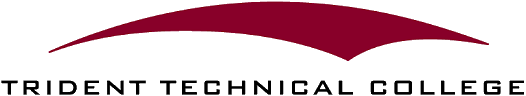
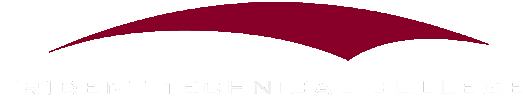
Updated color scheme, fixed loout buttons addes course show page and created home page

diff --git a/trident/css/styles.css b/trident/css/styles.css
@@ -1,9 +1,9 @@
 #header{
     justify-content: space-between;
     display: flex;
-    background-color: grey;
+    background-color: #4A0404;
 }
-#header button{
+#header button, #header form{
     width: 70px;
     height: 70px;
     margin-top: 5px;
@@ -25,22 +25,26 @@
     font-weight: bold;
 }
 #content{
+    display: flex
     background-color: lightgray;
 }
 #main{
     height: 400px;
-    background-color: lightgray;
+    background-color: #DEA557;
     text-align: center;
 }
+#content{
+    background-color: #DEA557;
+}
 body{
-    background-color: lightblue;
+    background-color: tan;
 }
 #dropdown{
     margin: 50px auto;
     display: block;
     width: 200px;
     height: 25px;
-    box-shadow: 4px 2px rgb(40,50,100);
+    box-shadow: 4px 2px #9A8467;
 }
 .submit{
     display: block;
@@ -50,12 +54,12 @@ body{
     width: 150px;
     height: 50px;
     font-weight: bold;
-    background-color: royalblue;
+    background-color: #603700;
     color: white;
-    box-shadow: 4px 2px rgb(40,50,100);
+    box-shadow: 4px 2px #9A8467;
 }
 .submit:hover{
-    background-color: dodgerblue;
+    background-color: #7A5626;
     color: black;
 }
 #submit{
@@ -64,19 +68,20 @@ body{
     margin-left: auto;
     margin-right: auto;
     font-weight: bold;
-    background-color: darkgrey;
-    color: #4A0404;
-    box-shadow: 4px 2px rgb(40,50,100);
+    background-color: #603700;
+    color: white;
+    box-shadow: 4px 2px #9A8467;
 }
 #submit:hover{
-    background-color: gray;
+    background-color: #7A5626;
     color: black;
 }
 #footer{
-    background-color: grey;
+    color: white;
+    background-color:  #4A0404;
     height: 50px
 }
-#footer p{
+#footer h3{
     margin-left: 45%;
 }
 form{
@@ -86,12 +91,12 @@ form{
     margin-top: 4.2%; 
     margin-left: auto;
     margin-right: auto;
-    background-color: lightgray;
     
 }
 fieldset{
+    background: tan;
     padding: 10px;
-    box-shadow: 5px 10px rgb(40,50,70);
+    box-shadow: 5px 10px #BD8C4A;
 }
 lablel{
     margin-left: auto;
@@ -99,7 +104,7 @@ lablel{
 }
 #text{
     background-color: palegoldenrod;
-    box-shadow: 4px 2px rgb(60,60,70);
+    box-shadow: 4px 2px #9A8467;
 }
 input{
     margin-left: auto;
@@ -109,7 +114,7 @@ table{
     margin-left: auto;
     margin-right: auto;
     border-collapse: collapse;
-    box-shadow: 4px 2px rgb(120,60,70);
+    box-shadow: 4px 2px #BD8C4A;
 }
 #textCourse{
     
@@ -154,15 +159,15 @@ button a{
 }
 #login{
     font-weight: bold;
-    background-color: royalblue;
+    background-color: #603700;
     color: white;
     height: 50px;
     width: 95%;
     display: block;
-    box-shadow: 4px 3px rgb(40,50,100);
+    box-shadow: 4px 3px #9A8467;
 }
 #login:hover{
-    background-color: dodgerblue;
+    background-color: #7A5626;
     color: black;
 }
 a{
@@ -171,3 +176,23 @@ a{
 a:hover{
     color: darkseagreen;
 }
+aside{
+    height: 100%;
+    display: inline-block;
+    width: 25%;
+}
+aside button{
+    margin: 10px;
+    width: 300px;
+    height: 5vh;
+}
+section{
+    width: 70%;
+    height: 100%;
+    display: inline-block;
+}
+section p{
+    width: 33%;
+    display: inline-block;
+}
+

diff --git a/trident/home.html b/trident/home.html
@@ -1,0 +1,41 @@
+<!DOCTYPE html>
+
+<html>
+
+<head>
+  <meta charset="utf-8" />
+  <meta http-equiv="Content-Security-Policy" content="default-src * 'unsafe-inline' data: ; style-src * 'self' 'unsafe-inline'; media-src * " />
+  <meta name="format-detection" content="telephone=no" />
+  <meta name="msapplication-tap-highlight" content="no" />
+  <meta name="viewport" content="user-scalable=yes, initial-scale=1, maximum-scale=1, minimum-scale=1, width=device-width" />
+    <link rel="stylesheet" href="css/styles.css"/>
+  
+  <script type="text/javascript" src="js/major.js"></script>
+  <title>Trident Tech: Home Menu</title>
+</head>
+
+<body>
+    <div id="content">
+  <div id="header">
+    <button onclick="window.location.href='http://127.0.0.1:55931/trident/www/major.html';"><img id="back" src="img/go%20back.png"></button>
+    <img id="logo" src="img/download.png">
+    <form action="/login?logout">
+      <button onclick="window.location.href='http://127.0.0.1:55931/trident/www/login.html';" id="logout">Logout</button></form>
+  </div>
+  <div id="main">
+    <aside>
+        <button>Sign Up For Courses</button>
+        <button>Completed Courses</button>
+      </aside>
+      <section>
+        <p>Lorem ipsum dolor sit amet, consectetur adipiscing elit. Nulla semper aliquet ipsum, sit amet sollicitudin nisl. Ut non sollicitudin dui. Proin laoreet mauris in arcu ultrices, eu vehicula purus hendrerit. Lorem ipsum dolor sit amet, consectetur adipiscing elit. Nam ullamcorper, quam nec placerat tempus, sem ligula bibendum urna, ut fermentum arcu lectus scelerisque eros. Nulla quis augue rutrum, congue est in, blandit tellus. Duis hendrerit commodo augue placerat tincidunt. </p>
+                  <p>Mauris dapibus porttitor varius. Mauris pellentesque maximus scelerisque. Nunc egestas venenatis risus, eu elementum mi tristique ut. Ut molestie nisl purus, non cursus libero posuere eu. Integer augue nulla, sollicitudin nec dui sed, gravida sagittis sem. Praesent elementum nulla sed ligula pellentesque tempor. Nulla facilisi. Maecenas a nibh vel augue iaculis ultricies. Praesent id iaculis ipsum. Ut ligula purus, pharetra ut commodo eget, dictum vel turpis. Morbi egestas dictum urna, id ultrices orci facilisis at.</p>
+                  <p>Duis id imperdiet mi. Mauris ornare mi dui, non ullamcorper risus pharetra nec. In et dapibus quam. Sed convallis nisi eget justo rutrum egestas. Cras blandit blandit lectus, et vulputate nisi ultricies eget. Integer mi sem, mattis vitae semper vel, feugiat sit amet augue. Cras vulputate rutrum malesuada. Quisque convallis metus sed sem elementum facilisis. In cursus dolor et magna tempus, vel aliquet erat tristique. </p>
+      </section>
+  </div>
+  <div id="footer">
+    <h3>© Trident Technical College</h3>
+  </div>
+  </div>
+</body>
+</html>

diff --git a/trident/courseshow.html b/trident/courseshow.html
@@ -1,9 +1,7 @@
-<!DOCTYPE html>
-
+<!doctype html public "-//W3C//DTD HTML 4.0 //EN">
 <html>
-
 <head>
-  <meta charset="utf-8" />
+    <meta charset="utf-8" />
   <meta http-equiv="Content-Security-Policy" content="default-src * 'unsafe-inline' data: ; style-src * 'self' 'unsafe-inline'; media-src * " />
   <meta name="format-detection" content="telephone=no" />
   <meta name="msapplication-tap-highlight" content="no" />
@@ -11,27 +9,31 @@
     <link rel="stylesheet" href="css/styles.css"/>
   
   <script type="text/javascript" src="js/major.js"></script>
-  <title>Trident Tech: Select Your Major</title>
+  <title>Select Your Courses</title>
 </head>
-
 <body>
-    <div id="content">
+   <div id="content">
   <div id="header">
     <button onclick="window.location.href='http://127.0.0.1:55931/trident/www/major.html';"><img id="back" src="img/go%20back.png"></button>
     <img id="logo" src="img/download.png">
-    <form action="/login?logout">
+      <form action="/login?logout">
       <button onclick="window.location.href='http://127.0.0.1:55931/trident/www/login.html';" id="logout">Logout</button></form>
   </div>
   <div id="main">
-    <form>
-        <select id="dropdown" onload="getMajorList()">
+      <select id="dropdown" onchange="clearcontent(table);">
+          <option>Show All Courses</option>
+          <option>Show Required Courses</option>
         </select>
-    </form>
-      <input type="submit" value="Submit Major" class="submit" id="btnMajor">
+      <div id="table">
+        
+      </div>
+
+
+      <p><input type="submit" value="Take Selected Courses" id="submit"></p>
   </div>
   <div id="footer">
     <h3>© Trident Technical College</h3>
   </div>
-  </div>
+       </div>
 </body>
 </html>

diff --git a/trident/course.html b/trident/course.html
@@ -12,11 +12,12 @@
   <title>Select Your Courses</title>
 </head>
 <body>
-   
+   <div id="content">
   <div id="header">
     <button onclick="window.location.href='http://127.0.0.1:55931/trident/www/major.html';"><img id="back" src="img/go%20back.png"></button>
     <img id="logo" src="img/download.png">
-      <button onclick="window.location.href='http://127.0.0.1:55931/trident/www/login.html/login?logout';" id="logout">Logout</button>
+      <form action="/login?logout">
+      <button onclick="window.location.href='http://127.0.0.1:55931/trident/www/login.html';" id="logout">Logout</button></form>
   </div>
   <div id="main">
       <div id="course_table">
@@ -27,7 +28,8 @@
       <p><input type="submit" value="Take Selected Courses" id="submit"></p>
   </div>
   <div id="footer">
-    <p>:copyright: Trident Technical College</p>
+    <h3>© Trident Technical College</h3>
   </div>
+       </div>
 </body>
 </html>

diff --git a/trident/login.html b/trident/login.html
@@ -23,8 +23,10 @@
       <p id="link">Not a student? <a href="http://127.0.0.1:55931/trident/www/register.html" id="link"> Register</a></p>
   </div>
   <div id="footer">
-    <p>:copyright: Trident Technical College</p>
+    <h3>© Trident Technical College</h3>
   </div>
 </div>
+    <script src="https://code.jquery.com/jquery-3.5.1.slim.min.js" integrity="sha384-DfXdz2htPH0lsSSs5nCTpuj/zy4C+OGpamoFVy38MVBnE+IbbVYUew+OrCXaRkfj" crossorigin="anonymous"></script>
+    <script src="https://cdn.jsdelivr.net/npm/bootstrap@4.5.3/dist/js/bootstrap.bundle.min.js" integrity="sha384-ho+j7jyWK8fNQe+A12Hb8AhRq26LrZ/JpcUGGOn+Y7RsweNrtN/tE3MoK7ZeZDyx" crossorigin="anonymous"></script>
 </body>
 </html>

diff --git a/trident/regster.html b/trident/regster.html
@@ -10,6 +10,7 @@
   <div id="header">
     <img id="logo" src="img/download.png">
   </div>
+        <div id="content">
   <div id="main">
   <form method="post" action="/login">
     <fieldset><legend>Register</legend>
@@ -26,7 +27,9 @@
       <p id="link">Have an account? <a href="http://127.0.0.1:55931/trident/www/login.html" id="link"> Log In</a></p>
   </div>
   <div id="footer">
-    <p>:copyright: Trident Technical College</p>
+    <h3>© Trident Technical College</h3>
   </div>
+    </div>
+    </div>
 </body>
 </html>
